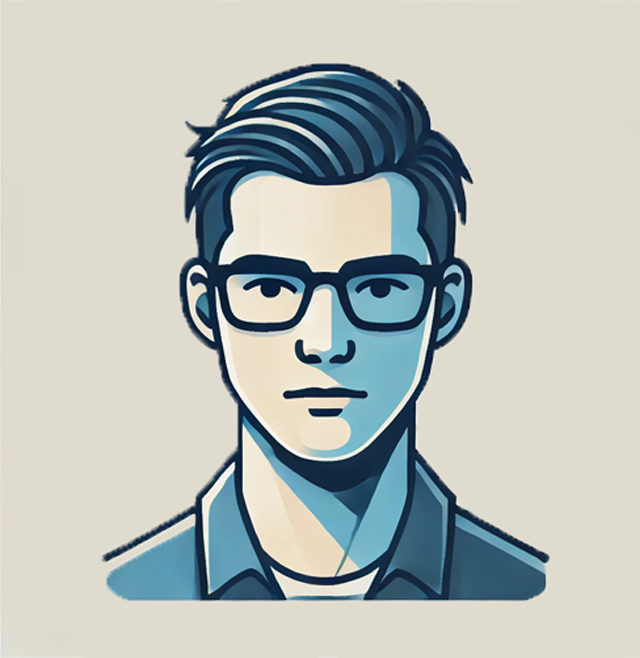
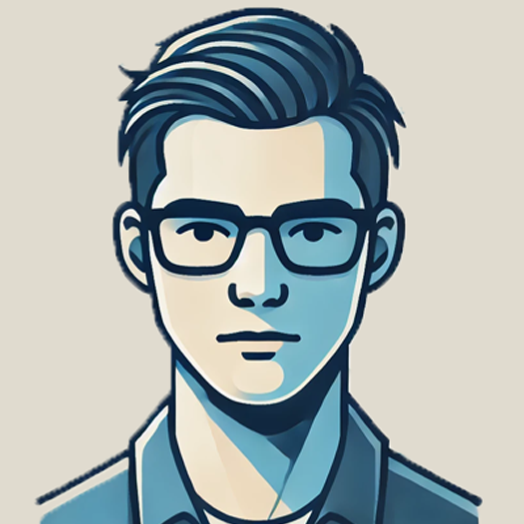
akhoya had tswira mabghat t9ad

diff --git a/styles.css b/styles.css
@@ -249,12 +249,13 @@ nav img{
   max-width: 1200px;
   width: 100%;
   gap: 30px;
-  flex-wrap: wrap; /* Ensures responsive wrapping */
+  flex-wrap: wrap; 
 }
 
 .about-text {
   flex: 1;
   max-width: 600px;
+  text-align: justify;
 }
 
 .about-text h1 {
@@ -273,7 +274,7 @@ nav img{
   display: flex;
   flex-direction: column;
   gap: 20px;
-  align-items: center; /* Centers the images vertically */
+  align-items: center; 
 }
 
 .image-container {
@@ -284,20 +285,23 @@ nav img{
   overflow: hidden;
   transition: transform 0.3s ease, box-shadow 0.3s ease;
   background-color: #f0f0f0;
-  flex-shrink: 0; /* Prevents images from resizing in flexbox */
+  flex-shrink: 0; 
 }
 
 .image-container:hover {
-  transform: scale(1.2); /* Pop-out effect */
+  transform: scale(1.2); 
   box-shadow: 0 10px 20px rgba(0, 0, 0, 0.2);
 }
 
 .about-image {
-  width: 100%;
-  height: 100%;
-  object-fit: cover; /* Ensures the image fills the circle without distortion */
-  object-position: center; /* Centers the image inside the container */
+  width: 110%;
+  height: 110%;
+  object-fit: cover; 
+  object-position: center; 
 }
+
+
+
 @media (max-width: 768px) {
   .about-container {
     flex-direction: column; /* Stack text and images vertically */

diff --git a/index.html b/index.html
@@ -71,7 +71,7 @@
       <div class="about-text">
         <h1>À propos de nous</h1>
         <p>
-          Nous sommes deux étudiants en Génie Informatique à la Faculté Polydisciplinaire, passionnés par le partage de
+          Nous sommes deux étudiants en Génie Informatique à la Faculté Polydisciplinaire du Taroudant, passionnés par le partage de
           connaissances et l'entraide académique. Nous avons créé ce site web dans le but de centraliser tous les cours,
           exercices et examens, afin de faciliter l'accès aux ressources essentielles pour les étudiants de notre
           faculté.
